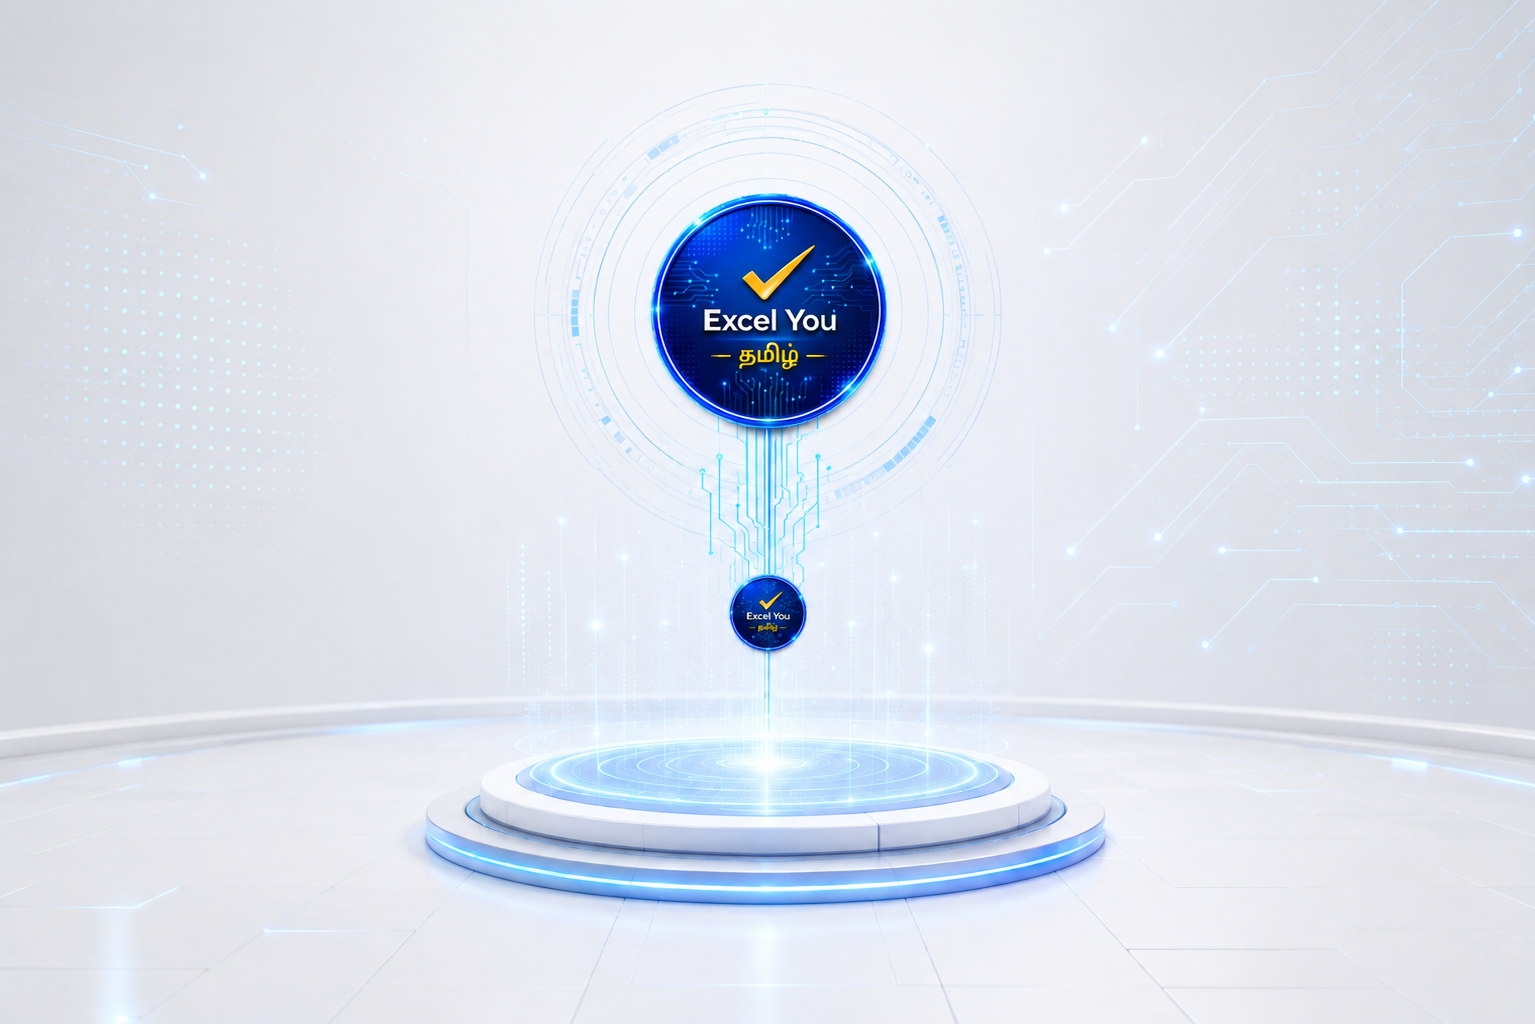
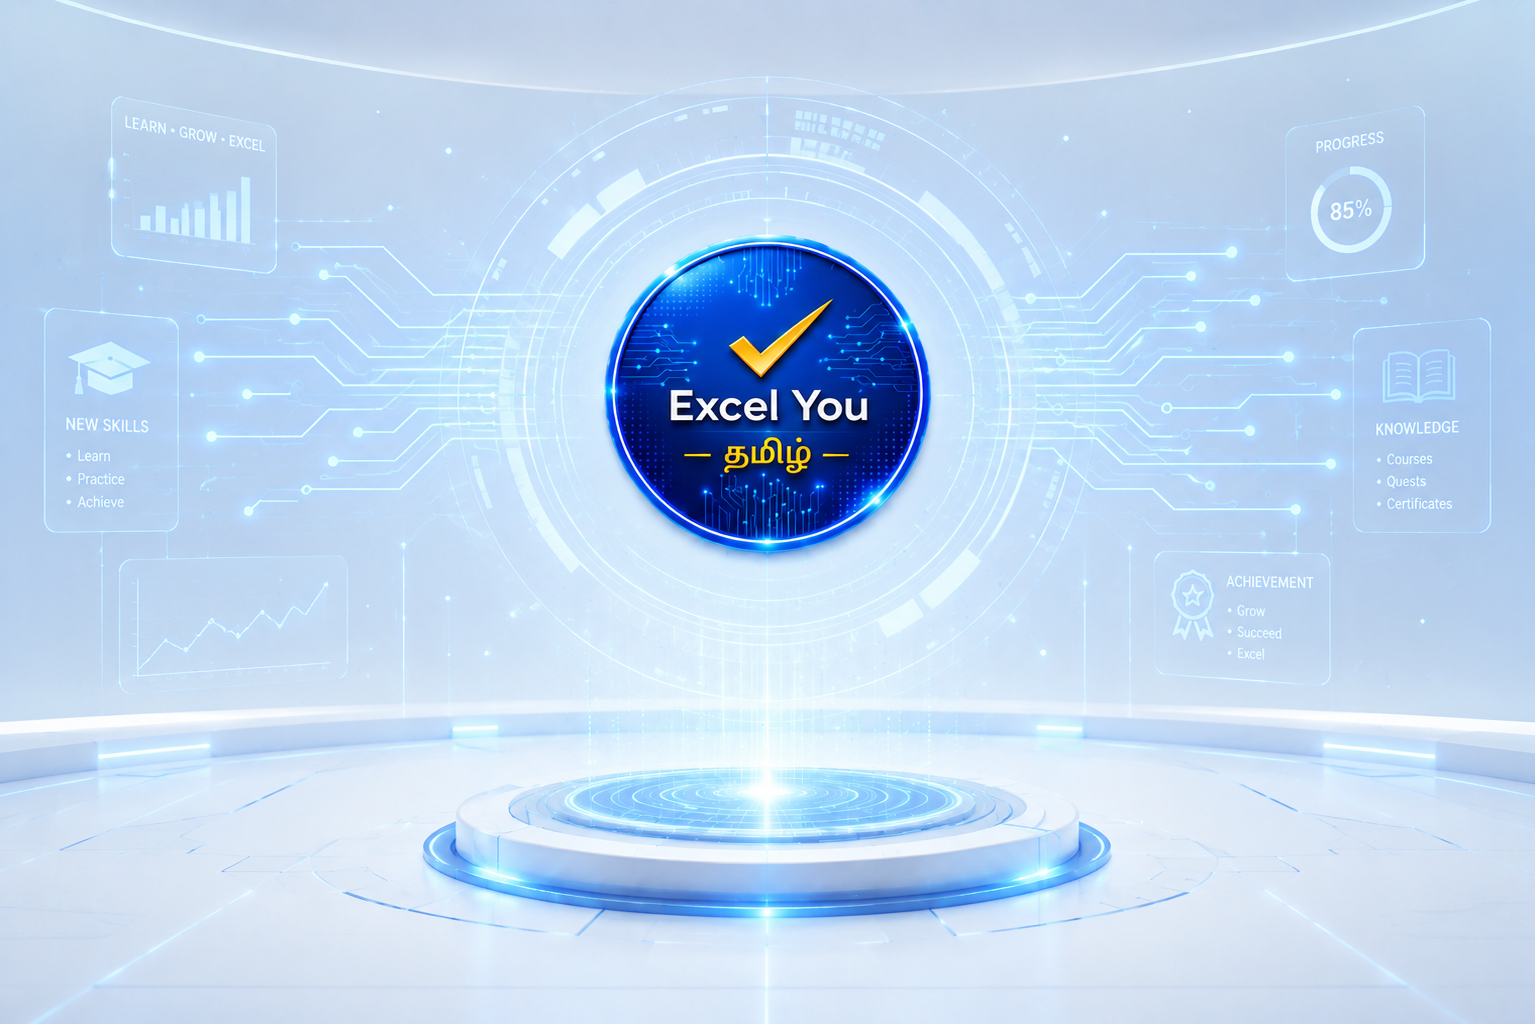
fix render crash

diff --git a/public/student/css/newstudentsignupform.css b/public/student/css/newstudentsignupform.css
@@ -21,9 +21,15 @@
 
     --border:rgba(255,255,255,.10);
 
-    --signup-card: rgba(8,18,40,0.58);
+    --signup-card:
+        linear-gradient(
+            135deg,
+            rgba(255,255,255,.15),
+            rgba(255,255,255,.04)
+        );
 
-    --signup-border: rgba(56,189,248,0.15);
+    --signup-border:
+        rgba(255,255,255,.15);
 
     --primary:#38bdf8;
 
@@ -149,35 +155,21 @@ body[data-theme="light"]{
     pointer-events:none;
 
 }
-body[data-theme="dark"] .background-overlay{
+body[data-theme="dark"]{
 
     background:
-
-        linear-gradient(
-
-            180deg,
-
-            rgba(15,23,42,.08),
-
-            rgba(15,23,42,.15)
-
-        );
+        url("/assets/backgrounds/signup-dark.png")
+        center center / cover
+        no-repeat fixed;
 
 }
 
-body[data-theme="light"] .background-overlay{
+body[data-theme="light"]{
 
     background:
-
-        linear-gradient(
-
-            180deg,
-
-            rgba(255,255,255,.20),
-
-            rgba(255,255,255,.35)
-
-        );
+        url("/assets/backgrounds/signup-light.png")
+        center center / cover
+        no-repeat fixed;
 
 }
 
@@ -736,9 +728,9 @@ body[data-theme="light"] .background-overlay{
 
     background:var(--signup-card);
 
-    backdrop-filter:blur(24px);
+    backdrop-filter:blur(28px);
 
-    -webkit-backdrop-filter:blur(24px);
+    -webkit-backdrop-filter:blur(28px);
 
     border:
         1px solid
@@ -746,13 +738,13 @@ body[data-theme="light"] .background-overlay{
 
     box-shadow:
 
-        0 20px 45px rgba(0,0,0,.30),
+        0 20px 40px rgba(0,0,0,.20),
 
-        0 0 0 1px rgba(255,255,255,.03),
+        0 8px 32px rgba(56,189,248,.08);
 
-        0 0 25px rgba(56,189,248,.06);
 
-}.signup-card::before{
+}
+.signup-card::before{
 
     content: "";
 
@@ -1096,12 +1088,19 @@ body[data-theme="light"] .background-overlay{
 
 /* GITHUB ICON */
 
-.github-icon{
+/* Dark Theme */
+body[data-theme="dark"] .github-icon{
 
     filter:brightness(0) invert(1);
 
 }
 
+/* Light Theme */
+body[data-theme="light"] .github-icon{
+
+    filter:none;
+
+}
 /* =========================
    LOGIN TEXT
 ========================= */